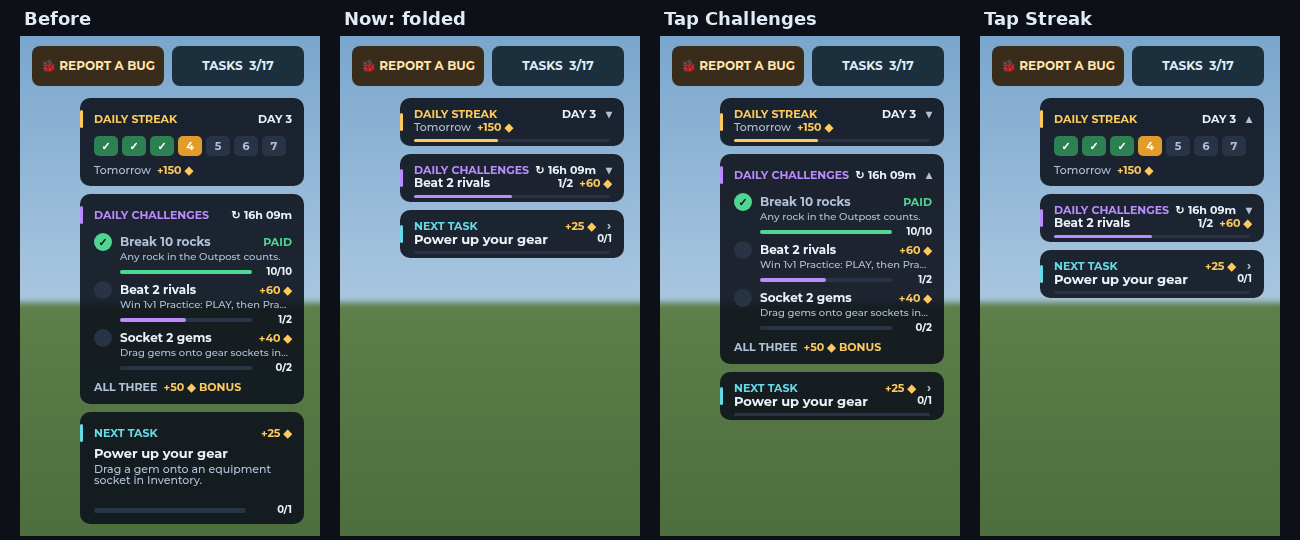
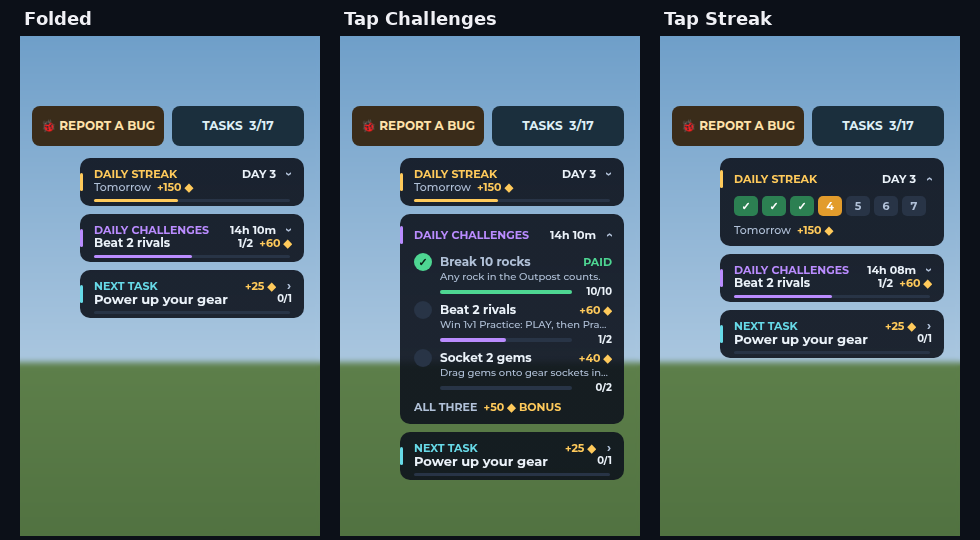
Outpost: rock lights no longer wash the floor cyan-white; no glyph boxes
Every lobby rock carried a cyan PointLight 3x its size at brightness 1.2.
With about a hundred rocks now round the middle, their pools overlapped
and blew the floor, and every miner on it, out to cyan-white. Each light
is now a small glow on the rock's own bed: 1.4x its size at 0.5 (the
Saga Monolith and Star Geode 1.8x, at 0.7 and 1.4). The neon crystals
still glow. The quarry test samples the floor round the middle with every
rock grown: the lights reach 9% of it and peak at 0.38, where the old
ones reached 35% and stacked to 1.13 (limits: 15% and 0.6).

Gotham has no ▾ ▴ ↻ or ✕, and in game they showed as empty boxes (the
offline renders, in a browser font, drew them fine):
- Lobby board: the fold arrow is a "›" turned down or up, and the
  challenges' timer shows on its own.
- Close buttons draw their X from two bars, IronUi.cross (pulled out of
  IronUi.window): the PLAY menu, Tasks, Store (3), Gem Vault, Wardrobe,
  the old Inventory's details, and the party's kick button.
- ◂ and ▸ (the same small triangles) become ‹ and ›, Spanish keys too.
tests/run_glyphs.py fails if any of these is in a string in src.

Docs: mining-rocks (the glow and its check), lobby (the board's arrow,
new render), ui-style (glyphs that show as boxes), probe-exchange.

Claude-Session: https://claude.ai/code/session_01M9AaiFqQ2dWL5tTu8tuKaL

diff --git a/tests/run_glyphs.py b/tests/run_glyphs.py
@@ -1,0 +1,62 @@
+"""No text the game shows uses a glyph that Roblox's Gotham can't draw.
+
+These showed in game as empty boxes. Comments may name them; strings may
+not. Draw the shape instead (IronUi.cross for an X, a turned "›" for an
+arrow), or use one that renders: › ‹ ◆ ✓ ·
+"""
+from pathlib import Path
+import re
+
+ROOT = Path(__file__).resolve().parents[1]
+LONG = re.compile(r"\[(=*)\[")  # a --[[ ]] (or --[==[ ]==]) comment
+BOXES = {
+    "✕": "MULTIPLICATION X",
+    "▾": "SMALL DOWN TRIANGLE",
+    "▴": "SMALL UP TRIANGLE",
+    "◂": "SMALL LEFT TRIANGLE",
+    "▸": "SMALL RIGHT TRIANGLE",
+    "↻": "CLOCKWISE ARROW",
+}
+
+
+def code_spans(text):
+    """Yields (line number, character) for every character outside a comment."""
+    i, line, n = 0, 1, len(text)
+    quote = None
+    while i < n:
+        ch = text[i]
+        if quote:
+            if ch == "\\":
+                i += 2
+                continue
+            if ch == quote or ch == "\n" and quote != "`":
+                quote = None
+        elif text.startswith("--", i):
+            long = LONG.match(text, i + 2)
+            if long:
+                close = "]" + long.group(1) + "]"
+                end = text.find(close, i)
+                end = n if end < 0 else end + len(close)
+                line += text.count("\n", i, end)
+                i = end
+                continue
+            end = text.find("\n", i)
+            i = n if end < 0 else end
+            continue
+        elif ch in "\"'`":
+            quote = ch
+        if ch == "\n":
+            line += 1
+        else:
+            yield line, ch
+        i += 1
+
+
+found = []
+files = sorted((ROOT / "src").rglob("*.luau"))
+for path in files:
+    for line, ch in code_spans(path.read_text(encoding="utf-8")):
+        if ch in BOXES:
+            found.append(f"{path.relative_to(ROOT)}:{line}: {ch} ({BOXES[ch]}) shows as an empty box in game")
+assert not found, "\n".join(found)
+print(f"PASS: no glyph that shows as a box, in {len(files)} source files")

diff --git a/tests/run_moon_quarry_scene.py b/tests/run_moon_quarry_scene.py
@@ -251,8 +251,45 @@ local OutpostServer={Tag="MineNode"}
 local CollectionService={AddTag=function() end}
 for i in site.Spots do freeSpots[i]=true end
 ''' + spawn_node + r'''
+local lightsBefore=#builtLights
 for i=1,Rules.NodeCount do spawnNode() end
 assert(nextId==Rules.NodeCount,"Welcome nodes changed total population")
+-- The rocks' glow on the floor round the middle (36-200 studs out, every 4
+-- studs; falloff taken as (1 - d/Range)^2). Wide lights overlapped there and
+-- washed the floor and everyone on it cyan-white.
+local glows={}
+for i=lightsBefore+1,#builtLights do
+ local l=builtLights[i]
+ local at=l.Parent.Position
+ table.insert(glows,{at.X,at.Y,at.Z,l.Range,l.Brightness})
+end
+assert(#glows==Rules.NodeCount,"One glow per rock: "..#glows)
+local middle=origin.Position
+local samples,lit,peak=0,0,0
+for x=-200,200,4 do
+ for z=-200,200,4 do
+  local r=math.sqrt(x*x+z*z)
+  if r>=36 and r<=200 then
+   samples+=1
+   local px,py,pz=middle.X+x,middle.Y,middle.Z+z
+   local sum,reached=0,false
+   for _,g in glows do
+    local dx,dy,dz=g[1]-px,g[2]-py,g[3]-pz
+    local d=math.sqrt(dx*dx+dy*dy+dz*dz)
+    if d<g[4] then
+     reached=true
+     sum+=g[5]*(1-d/g[4])^2
+    end
+   end
+   if reached then lit+=1 end
+   peak=math.max(peak,sum)
+  end
+ end
+end
+-- (The old lights reached 35% of it and stacked to 1.13.)
+assert(lit/samples<=0.15,string.format("Rock lights reach %.0f%% of the floor round the middle",lit/samples*100))
+assert(peak<=0.6,string.format("Rock lights stack to %.2f on the floor",peak))
+print(string.format("PASS: rock glows reach %.0f%% of the floor round the middle, %.2f at most",lit/samples*100,peak))
 for _,i in site.ArrivalSpots do assert(not freeSpots[i],"Random population left welcome field empty") end
 for _,i in site.NearSpots do assert(not freeSpots[i],"The field round the middle wasn't filled first") end
 -- A rock popped in the middle grows back in the middle, not out at the walls.

diff --git a/docs/ui-style.md b/docs/ui-style.md
@@ -22,7 +22,7 @@ It now has the Store's look:
 | Header | Clear, over a hairline, with the window's colour as a short bar under the title |
 | Icon | The window's icon in a round chip tinted with its colour |
 | Title | 22 px Gotham Black, with the subtitle 12 px under it |
-| Close | A quiet round ✕ (36 px), lighter on hover |
+| Close | A quiet round X (36 px) drawn from two bars (`IronUi.cross`), lighter on hover |
 
 The API is unchanged (`Gui`, `Panel`, `Header`, `Close`, `Title`, `Subtitle`,
 `Fit`, `Dock`), and so are the content positions.
@@ -57,6 +57,20 @@ The accents (Gold, Teal, Amethyst, Good, Bad) are unchanged.
 - In-world signs (Michroma), the splash prompt (Arcade) and the dialogue
   typewriter (Code) keep their faces on purpose.
 
+### Glyphs that show as boxes
+
+Gotham has no ✕ ▾ ▴ or ↻: in game each one showed as an empty box,
+though the offline renders (a browser font) drew them fine. ◂ and ▸ are
+the same small triangles, so they're treated as missing too.
+- An X is drawn from two crossed bars: `IronUi.cross(button, length,
+  colour)`. Every close button uses it, and the party's kick button.
+- An arrow is a "›" turned with `Rotation` (90 points down, -90 up), as on
+  the lobby board. "‹ ›" stand in for the small triangles in labels.
+- These render: › ‹ ◆ ✓ · and emoji.
+
+`tests/run_glyphs.py` fails if one of the six is in a string anywhere in
+`src` (comments may name them).
+
 ## Fixes found in the renders
 
 | Screen | Problem | Fix |
@@ -66,7 +80,7 @@ The accents (Gold, Teal, Amethyst, Good, Bad) are unchanged.
 | Market | The first row's card outlines were cut off by the scroll area; prices like "15000 coins" | 2 px padding inside every list; prices like "15,000 coins" |
 | Combat HUD | A surge's rarity ("Legendary") spilled past its round button | It shrinks to fit (6 to 10 px), in the rarity's colour |
 | Inventory | The last element line ran under the Q card | That line is as narrow as the value above it, with shorter words |
-| PLAY menu, Tasks | Square close buttons (a red one on PLAY) | The same round ✕ as every window |
+| PLAY menu, Tasks | Square close buttons (a red one on PLAY) | The same round X as every window |
 
 ## Screens
 

diff --git a/docs/mining-rocks.md b/docs/mining-rocks.md
@@ -73,6 +73,12 @@ across the field. The label stays up until the rock pops.
 - The main chunk is the `Body`: the model's PrimaryPart, the only part
   that collides or can be queried, and the parent of the mining prompt and
   the PointLight. The light brightens as the rock nears popping.
+- The light is a small glow on the rock's own bed: its range is 1.4 times
+  the rock's size and its brightness 0.5 (the Saga Monolith and Star Geode:
+  1.8 times, at 0.7 and 1.4). The field round the middle holds about a
+  hundred rocks. With the old lights (3 times the size, brightness 1.2)
+  their pools overlapped, and the floor and the miners on it washed out
+  cyan-white. The crystals are neon, so they still glow.
 - The first child named `Crystal` sets the colour of the chips and flash
   on each hit.
 - Budget: a Regolith Chunk is 19 parts and a Crystal Boulder 29. Only
@@ -103,6 +109,11 @@ their old builder.
   `spawnNode`. It checks that the field round the middle has at least 70
   spots, that none is on the lane from the pad, that it fills first, and
   that a rock popped there grows back there.
+
+  With every rock grown, it samples the floor round the middle every 4
+  studs. The rocks' lights may reach at most 15% of it and add up to 0.6
+  at most. They now reach 9% and peak at 0.38; the old lights reached 35%
+  and stacked to 1.13.
 - `tests/outpost_cases.luau` checks that a popped rock pays exactly one
   gem and no coins or gear. It also checks that a full pouch refuses the
   swing without wearing the pick or chipping the rock.

diff --git a/docs/lobby.md b/docs/lobby.md
@@ -45,6 +45,11 @@ next task's row opens the Tasks window.
 
 ![The board folded, then the challenges and the streak opened](lobby/board-folded.png)
 
+The arrow on a row is a "›" turned to point down (folded) or up (open).
+Gotham has no "▾" or "▴", and they showed in game as empty boxes. The
+challenges' row shows the time left on today's three on its own; the "↻"
+it led with was a box too.
+
 On a phone there is room for one slim strip, under TASKS:
 - the **next task** while a player is still learning (the first two Tasks
   pages: mining and gear): its name and reward over a thin bar;

diff --git a/docs/probe-exchange.md b/docs/probe-exchange.md
@@ -78,8 +78,9 @@ when the Spanish runs longer.
 
 ## The close button
 
-Every window built with `IronUi.window` draws its X from two crossed bars.
-Gotham has no "✕" character, so in the game it showed as an empty box.
+Every window built with `IronUi.window` draws its X from two crossed bars
+(`IronUi.cross`, which every other close button now uses too). Gotham has
+no "✕" character, so in the game it showed as an empty box.
 
 ## Code and tests
 
